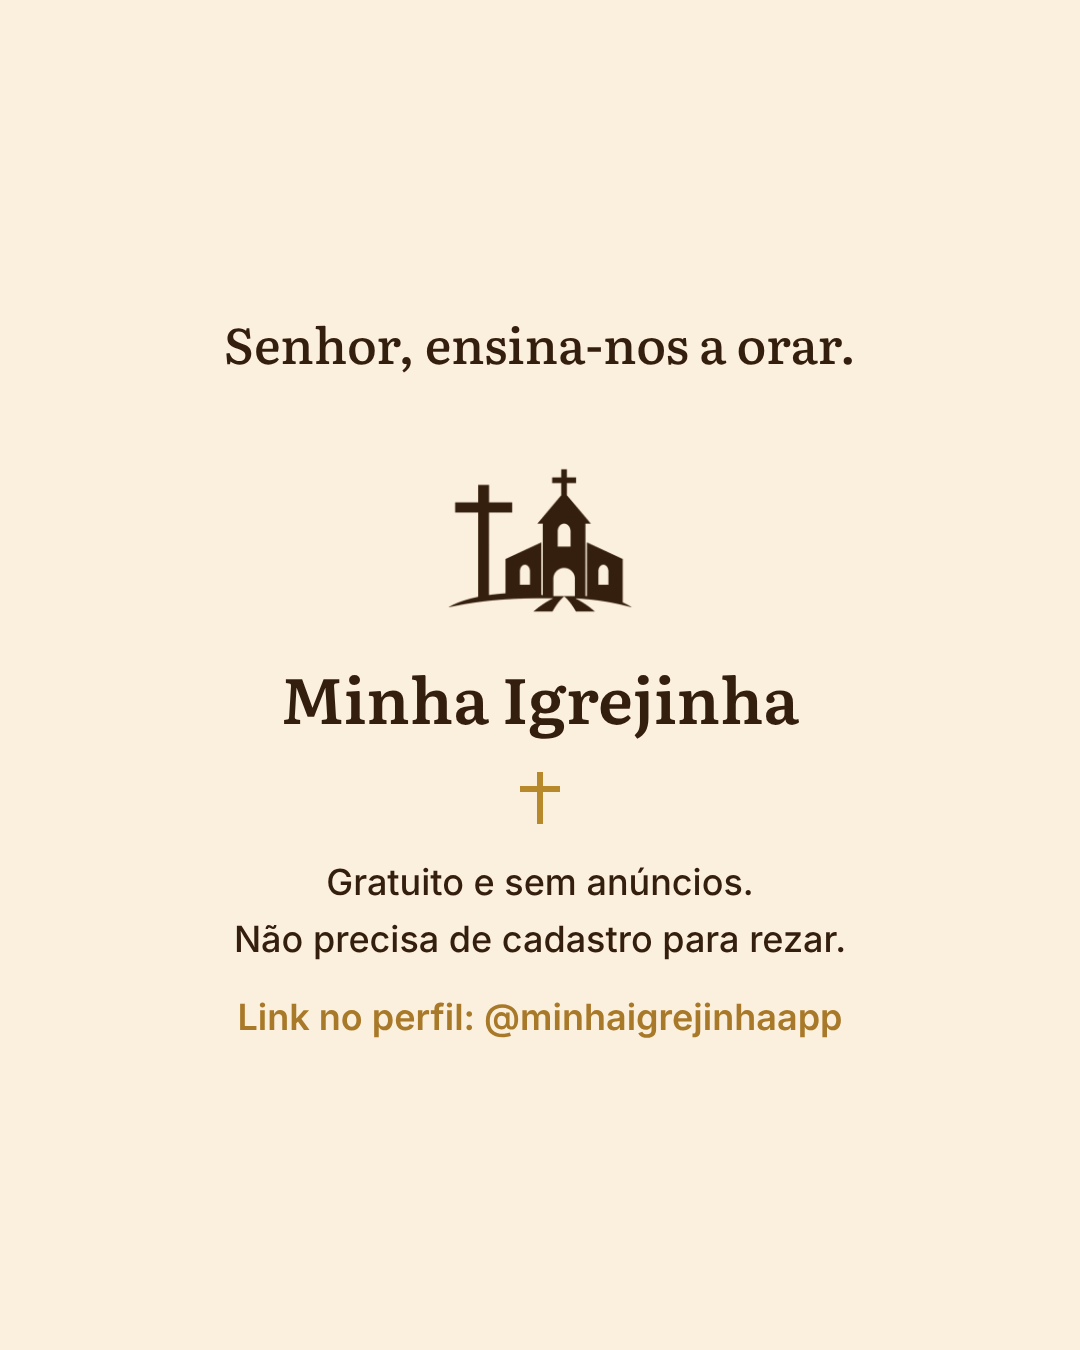
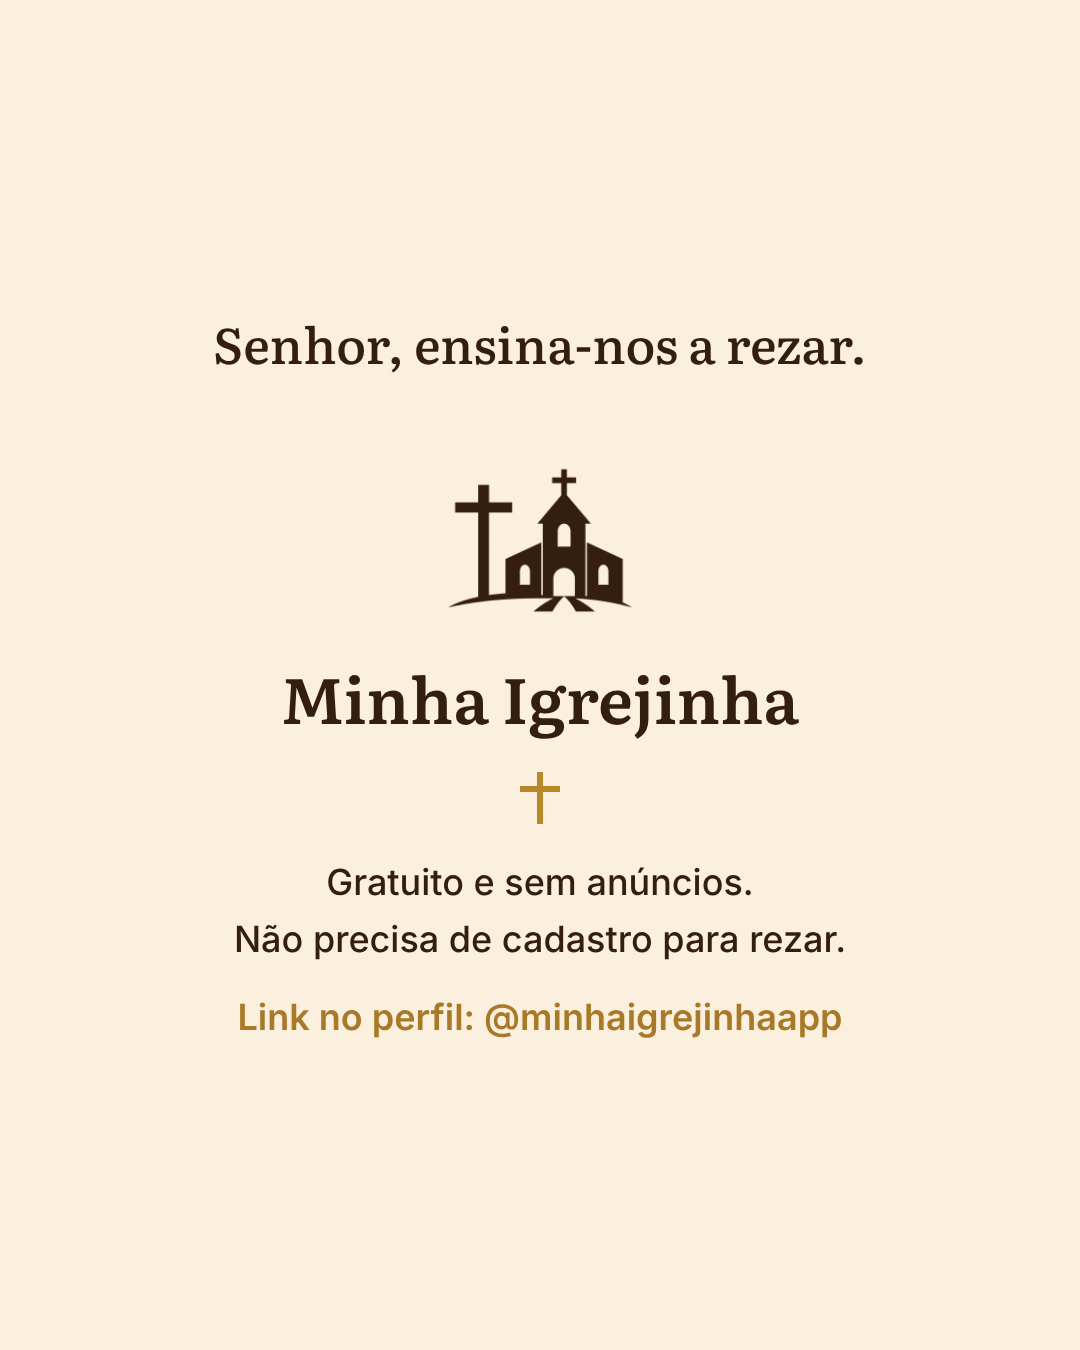
Post de orações: "ensina-nos a rezar"; regra do rezar no CLAUDE.md
Claude-Session: https://claude.ai/code/session_01KkDATWAAHk8rZXQWk2D87j

Changed region(s): [[0.1833, 0.2178, 0.7944, 0.28]]

diff --git a/CLAUDE.md b/CLAUDE.md
@@ -197,6 +197,7 @@ de Deus do Brasil), cada um com foto, e as fotos FORA do app.
   de "assistente". Escrita sóbria, como um app de editora católica: vírgula,
   ponto, dois-pontos.
 - Sem texto explicando a tela ou o botão; fica o que é conteúdo ou estado.
+- **"Rezar", não "orar"** (pedido do dono, 17/11/2026: o católico diz "vou rezar"). Vale para tela, post e legenda; "oração" continua. A Bíblia fica como foi revisada.
 
 ## Verificar de verdade
 `npm run verificar` = `typecheck` (`tsc -b --force`) + `test` (vitest) +
